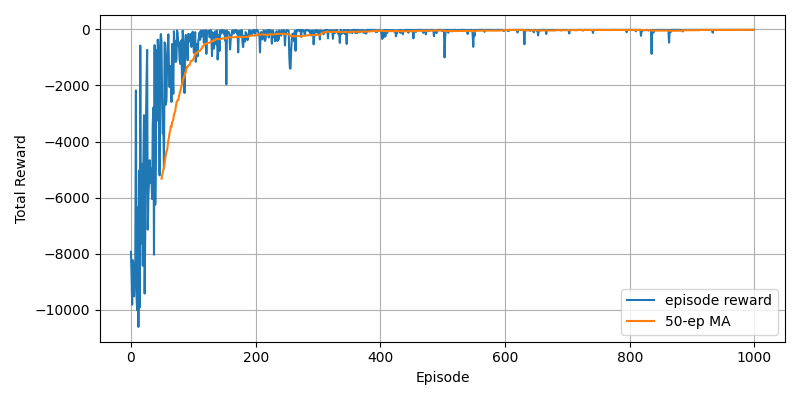
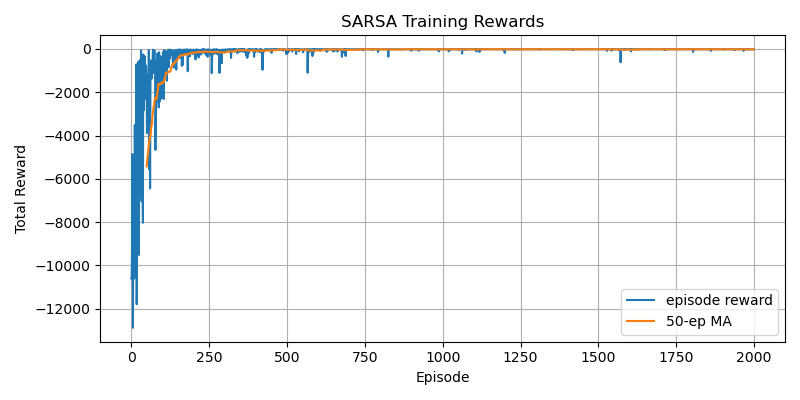
fix.图表输出顺序修改

diff --git a/2/q_learning_cliffwalking.py b/2/q_learning_cliffwalking.py
@@ -10,8 +10,8 @@ from matplotlib.animation import FuncAnimation
 import matplotlib.patches as patches
 
 
-def q_learning(env, num_episodes=500, alpha=0.5, gamma=0.99,
-               epsilon=1.0, epsilon_decay=0.995, min_epsilon=0.01,
+def q_learning(env, num_episodes=500, alpha=0.2, gamma=0.99,
+               epsilon=1.0, epsilon_decay=0.9985, min_epsilon=0.00001,
                max_steps_per_episode=1000):
     n_states = env.observation_space.n
     n_actions = env.action_space.n
@@ -323,7 +323,7 @@ def print_policy(policy, n_rows=4, n_cols=12):
         print(' '.join(row))
 
 
-def plot_rewards(rewards, save_path=None):
+def plot_rewards(rewards, save_path=None, title=None):
     plt.figure(figsize=(8, 4))
     plt.plot(rewards, label='episode reward')
     # moving average
@@ -333,6 +333,8 @@ def plot_rewards(rewards, save_path=None):
         plt.plot(range(window - 1, window - 1 + len(ma)), ma, label=f'{window}-ep MA')
     plt.xlabel('Episode')
     plt.ylabel('Total Reward')
+    if title:
+        plt.title(title)
     plt.legend()
     plt.grid(True)
     if save_path:
@@ -358,7 +360,7 @@ def main():
     os.makedirs(out_dir, exist_ok=True)
 
     # training hyperparameters
-    num_episodes = 1000
+    num_episodes = 2000
     alpha = 0.7
     gamma = 0.99
     epsilon = 1.0
@@ -401,9 +403,18 @@ def main():
     print("SARSA policy:")
     print_policy(policy_s, n_rows=n_rows, n_cols=n_cols)
 
+    # Test policies with GUI visualization
+    print("\n" + "="*50)
+    print("TESTING POLICIES WITH GUI VISUALIZATION")
+    print("="*50)
+    
+    test_results = test_policies_with_gui(env, Q_q, Q_s, n_rows, n_cols, out_dir)
+
     # plots: separate and combined
-    plot_rewards(rewards_q, save_path=os.path.join(out_dir, 'rewards_q_learning.png'))
-    plot_rewards(rewards_s, save_path=os.path.join(out_dir, 'rewards_sarsa.png'))
+    plot_rewards(rewards_q, save_path=os.path.join(out_dir, 'rewards_q_learning.png'), title='Q-learning Training Rewards')
+    plt.show()
+    plot_rewards(rewards_s, save_path=os.path.join(out_dir, 'rewards_sarsa.png'), title='SARSA Training Rewards')
+    plt.show()
 
     # combined plot
     plt.figure(figsize=(10, 5))
@@ -427,18 +438,12 @@ def main():
     plt.tight_layout()
     plt.savefig(combined_file)
     print(f"Saved combined reward plot to {combined_file}")
+    plt.show()
 
     # save Q-tables
     np.save(os.path.join(out_dir, 'q_table_q_learning.npy'), Q_q)
     np.save(os.path.join(out_dir, 'q_table_sarsa.npy'), Q_s)
     print(f"Saved Q-tables to {out_dir}")
-
-    # Test policies with GUI visualization
-    print("\n" + "="*50)
-    print("TESTING POLICIES WITH GUI VISUALIZATION")
-    print("="*50)
-    
-    test_results = test_policies_with_gui(env, Q_q, Q_s, n_rows, n_cols, out_dir)
     
     print("\nAll training and testing completed!")
     print(f"Check {out_dir} for all generated files:")
